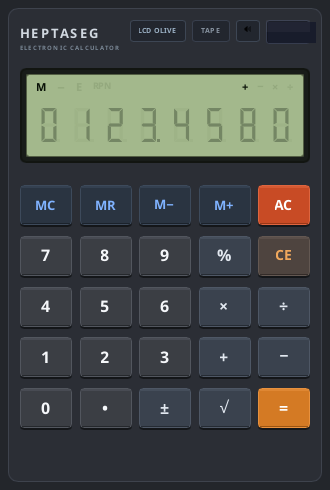
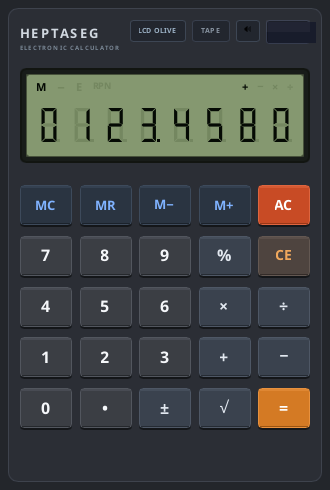
fix(ui): remove opacity dimming from digit cell container and calibrate darker LCD tones

Changed region(s): [[0.0606, 0.1531, 0.9394, 0.3367]]

diff --git a/src/core/types.rs b/src/core/types.rs
@@ -131,10 +131,10 @@ impl DisplayTheme {
     /// Returns the (background, active_ink, ghost_ink, bezel_border) hex color strings.
     pub fn colors(&self) -> (&'static str, &'static str, &'static str, &'static str) {
         match self {
-            DisplayTheme::ClassicLcd => ("#a3b88c", "#0a1208", "#94a97e", "#4e593f"),
-            DisplayTheme::QuartzLcd => ("#c8d4d2", "#040708", "#b6c2c0", "#556060"),
-            DisplayTheme::VfdCyan => ("#050c10", "#00ffd5", "#002c28", "#0e1a20"),
-            DisplayTheme::SinclairLed => ("#140204", "#ff1e2e", "#330508", "#2e060a"),
+            DisplayTheme::ClassicLcd => ("#859870", "#050a04", "#748760", "#3a4430"),
+            DisplayTheme::QuartzLcd => ("#9ba8a6", "#020405", "#849290", "#3d4645"),
+            DisplayTheme::VfdCyan => ("#050c10", "#00ffd5", "#082b26", "#0e1a20"),
+            DisplayTheme::SinclairLed => ("#140204", "#ff1e2e", "#38060a", "#2e060a"),
         }
     }
 }
